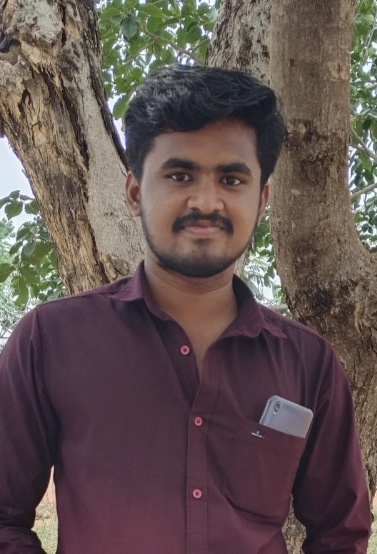
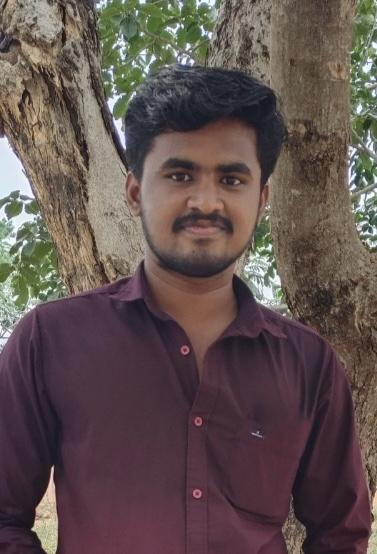
final changes

Changed region(s): [[0.6711, 0.7058, 0.8462, 0.7978]]

diff --git a/necgpp-mar26/src/services/email.service.js b/necgpp-mar26/src/services/email.service.js
@@ -126,7 +126,7 @@ export const sendUserEditedNotice = async (user, editorUserId) => {
   const adminEmails = await getAdminEmails();
   const adminHtml = templates.adminActionSummaryTemplate(
     'User Profile Updated',
-    `Administrator (ID: ${editorUserId}) has updated the profile for user: <strong>${user.full_name}</strong>.`,
+    `Administrator (USER ID: ${editorUserId}) has updated the profile for user: <strong>${user.full_name}</strong>.`,
     [`Email: ${user.email}`, `Role: ${user.role}`]
   );
   await bulkSend({ to: adminEmails, subject: `System Notification: User Profile Update`, html: adminHtml });
@@ -137,7 +137,7 @@ export const sendUserDeletedNotice = async (userName, userEmail, userRole, edito
   const adminEmails = await getAdminEmails();
   const html = templates.adminActionSummaryTemplate(
     'User Deleted',
-    `Administrator (ID: ${editorUserId}) has permanently deleted a user account.`,
+    `Administrator (USER ID: ${editorUserId}) has permanently deleted a user account.`,
     [`Name: ${userName}`, `Email: ${userEmail}`, `Role: ${userRole}`]
   );
   await bulkSend({ to: adminEmails, subject: `System Notification: User Deletion`, html });
@@ -148,7 +148,7 @@ export const sendBulkDeletionSummary = async (count, details, editorUserId) => {
   const adminEmails = await getAdminEmails();
   const html = templates.adminActionSummaryTemplate(
     'Bulk Deletion Executed',
-    `Administrator (ID: ${editorUserId}) has performed a bulk deletion.`,
+    `Administrator (USERID: ${editorUserId}) has performed a bulk deletion.`,
     [`Action: ${details}`, `Records removed: ${count}`]
   );
   await bulkSend({ to: adminEmails, subject: `System Notification: Bulk Deletion`, html });
@@ -173,11 +173,16 @@ export const sendPasswordChangedEmail = async (user) => {
   await sendEmail({ to: user.email, subject: 'Security Alert: Password Changed', html });
 };
 
+export const sendPasswordResetConfirmationEmail = async (user) => {
+  const html = templates.resetPasswordSuccessTemplate(user.full_name);
+  await sendEmail({ to: user.email, subject: 'Password Reset Confirmation', html });
+};
+
 // ═══════════════════════════════════════════════════════════════════════════════
 // SUBJECT EMAILS
 // ═══════════════════════════════════════════════════════════════════════════════
 
-export const sendSubjectCreatedMails = async (subject, collaboratorDeptIds, allDeptIds) => {
+export const sendSubjectCreatedMails = async (subject, collaboratorDeptIds, allDeptIds, notify) => {
   if (await suppressed(`Subject created: ${subject?.subject_name}`)) return;
   const allHeadRows = await executeQuery(
     `SELECT u.email, d.dept_id FROM users u
@@ -188,13 +193,15 @@ export const sendSubjectCreatedMails = async (subject, collaboratorDeptIds, allD
   const nonCollaboratorEmails = allHeadRows.filter(r => !collaboratorDeptIds.includes(r.dept_id)).map(r => r.email);
   const adminEmails = await getAdminEmails();
 
-  // (a) To Non-Collaborators
-  const htmlNotice = templates.subjectCreatedNoticeTemplate(subject.subject_name, subject.creator || 'Admin');
-  await bulkSend({
-    to: nonCollaboratorEmails,
-    subject: `New Subject: ${subject.subject_name}`,
-    html: htmlNotice
-  });
+  if(notify){
+    // (a) To Non-Collaborators
+    const htmlNotice = templates.subjectCreatedNoticeTemplate(subject.subject_name, subject.creator || 'Admin');
+    await bulkSend({
+      to: nonCollaboratorEmails,
+      subject: `New Subject: ${subject.subject_name}`,
+      html: htmlNotice
+    });
+  }
 
   // (b) To Collaborators + Admins
   const htmlAdmin = templates.subjectCreatedAdminTemplate(subject.subject_name, subject.creator || 'Admin');
@@ -231,12 +238,13 @@ export const sendSubjectLockMail = async (subjectId, subjectName, locked) => {
 export const sendDeptViewLockMail = async (deptId, subjectName, locked) => {
   if (await suppressed(`Dept view lock: ${subjectName}`)) return;
   const memberEmails = await getDeptMemberEmails(deptId);
+  const headEmail = await getDeptHeadEmail(deptId);
   const action = locked ? 'Hidden' : 'Visible';
   const html = templates.genericNotificationTemplate(
     'Visibility Changed',
-    `The subject <strong>${subjectName}</strong> is now <strong>${action.toLowerCase()}</strong> for your department based on your Department Head's settings.`
+    `The subject <strong>${subjectName}</strong> is now <strong>${action.toLowerCase()}</strong> for your department in effect of your Department Head's settings.`
   );
-  await bulkSend({ to: memberEmails, subject: `Visibility Change: ${subjectName}`, html });
+  await bulkSend({ to: [...memberEmails,...headEmail], subject: `Visibility Change: ${subjectName}`, html });
 };
 
 export const sendCollaboratorAddedMail = async (subjectId, subjectName, addedDeptName) => {
@@ -273,15 +281,24 @@ export const sendCollaboratorRemovedMail = async (subjectId, subjectName, remove
   }
 };
 
-export const sendCollaboratorLeftMail = async (subjectId, subjectName, leftDeptName) => {
+export const sendCollaboratorLeftMail = async (subjectId, subjectName, deptId, leftDeptName) => {
   if (await suppressed(`Collaborator left: ${subjectName}`)) return;
   const collaboratorEmails = await getCollaboratorEmails(subjectId);
   const adminEmails = await getAdminEmails();
+  const leftHeadEmail = await getDeptHeadEmail(deptId);
   const html = templates.genericNotificationTemplate(
     'Collaborator Left',
     `Department <strong>${leftDeptName}</strong> has chosen to leave the subject <strong>${subjectName}</strong>.`
   );
   await bulkSend({ to: [...collaboratorEmails, ...adminEmails], subject: `Collaborator Left: ${subjectName}`, html });
+   // Notice to the removed department head
+  if (leftHeadEmail) {
+    const htmlRemoved = templates.genericNotificationTemplate(
+      'Access Lost',
+      `Your department's collaborating access to the subject <strong>${subjectName}</strong> has been lost because you left from the subject.`
+    );
+    await sendEmail({ to: leftHeadEmail, subject: `Subject Access Lost: ${subjectName}`, html: htmlRemoved });
+  }
 };
 
 export const sendJoinRequestMail = async (subjectId, subjectName, requestingDeptName) => {

diff --git a/frontend/src/pages/public/AboutPortal.tsx b/frontend/src/pages/public/AboutPortal.tsx
@@ -25,7 +25,7 @@ const sections = [
   },
   {
     icon: ClipboardList,
-    title: 'Tests — exam-grade conditions',
+    title: 'Tests - GATE-Grade conditions',
     items: [
       'Two creation modes: Make-Questions and Intelli-Pick (auto-pulls from your practice bank)',
       'Mandatory full-screen mode; tab switches and window changes count as malpractice',
@@ -37,7 +37,7 @@ const sections = [
     title: 'Where you stand',
     items: [
       'Dept heads, tutors, and admins each see a scoped progress view',
-      'Per-student detail card with last attempts and active subjects',
+      'Per-student detail card with last attempts, current learning subjects',
       'Climb the ranks across your dept, batch, or globally.',
     ],
   },
@@ -45,17 +45,17 @@ const sections = [
     icon: Users,
     title: 'Tutorward management',
     items: [
-      'Any staff can be assigned tutorward students from their dept + batch',
-      'Add/remove students by registration number',
+      'Staff can create tutorwardship for students from their dept + tutoring batch',
+      'Add/remove students from their tutorward list',
     ],
   },
   {
     icon: ListChecks,
     title: 'Question types — exactly GATE',
     items: [
-      'MCQ — 1 or 2 marks, negative marking when set has it on',
-      'MSQ — 2 marks, all-or-nothing (no negative)',
-      'NAT — 1 or 2 marks, ±0.0001 tolerance, no negative',
+      'MCQ — 1 or 2 marks, (negative marking if applied)',
+      'MSQ — 2 marks, all-or-nothing (no negative marking)',
+      'NAT — 1 or 2 marks, ±0.0001 tolerance (no negative marking)',
     ],
   },
 ];
@@ -71,7 +71,7 @@ export default function AboutPortalPage() {
           How NEC GATE Portal works
         </h1>
         <p className="mt-4 text-slate-600 max-w-2xl mx-auto leading-relaxed">
-          A quick tour of the workflows the platform was built around — practice, tests, leaderboards, and the access model that ties them together.
+          A quick tour of the platform workflows that was built around — practice, tests, leaderboards, and the access model that ties them together.
         </p>
       </div>
 
@@ -101,7 +101,7 @@ export default function AboutPortalPage() {
       <div className="mt-12 rounded-2xl bg-navy-50 border border-navy-100 p-6 sm:p-8 text-center">
         <h3 className="font-display font-bold text-navy-900 text-xl">Roles at a glance</h3>
         <p className="mt-2 text-slate-600 max-w-2xl mx-auto text-sm">
-          Admins manage everything. Department Heads own subjects and tests for their dept. Staff can mentor tutorward students. Students practice, attempt tests, and climb the leaderboard.
+          Admins manage everything. Department Heads can monitor and own subjects and tests for their dept. Staff can mentor tutorward students. Students practice, attempt tests, and climb the leaderboard.
         </p>
         <Link to="/login" className="inline-block mt-5">
           <Button size="lg" rightIcon={<ArrowRight className="h-4 w-4" />}>Go to sign in</Button>

diff --git a/frontend/src/pages/public/AboutUs.tsx b/frontend/src/pages/public/AboutUs.tsx
@@ -161,9 +161,9 @@ export default function AboutUsPage() {
               <Sparkles className="h-5 w-5 text-amber-500" /> Built in-house
             </h2>
             <p>
-              This platform was envisioned, designed, and developed end-to-end by NEC faculty and
-              students for the specific way our departments coach for GATE — collaborative practice
-              between departments, transparent progress for tutors, and exam-grade test conditions.
+              This platform was envisioned, designed, and developed end-to-end by NEC students (A team from 2022-2026 Batch Year) 
+              for the specific way our departments coach for GATE — collaborative practice
+              between departments, transparent progress for monitoring, and gate-grade test conditions.
             </p>
           </div>
         </div>
@@ -180,7 +180,7 @@ export default function AboutUsPage() {
             Guided by
           </h2>
           <p className="text-slate-500 text-sm mt-1.5">
-            The faculty who shaped the platform's direction
+            The faculty who provided key directives of this platform
           </p>
         </div>
 
@@ -211,7 +211,7 @@ export default function AboutUsPage() {
             Built by NEC students
           </h2>
           <p className="text-slate-500 text-sm mt-1.5">
-            Final-year CSE undergraduates of the 2022–26 batch
+            The full-stack minds behind the architecture, interface design, and logic flows.
           </p>
         </div>
 

diff --git a/necgpp-mar26/src/utils/emailTemplates.js b/necgpp-mar26/src/utils/emailTemplates.js
@@ -70,15 +70,7 @@ const baseLayout = (content, previewText = '') => `
 /**
  * Auth Templates
  */
-export const forgotPasswordTemplate = (name, resetUrl) => baseLayout(`
-  <h2 style="margin-top: 0; color: ${PRIMARY_COLOR}; font-size: 20px;">Forgot your password?</h2>
-  <p>Hi <strong>${name}</strong>,</p>
-  <p>We received a request to reset your password. You can do this by clicking the button below:</p>
-  <div style="text-align: center; margin: 30px 0;">
-    <a href="${resetUrl}" style="background-color: ${SECONDARY_COLOR}; color: #ffffff; padding: 14px 28px; border-radius: 6px; text-decoration: none; font-weight: 600; display: inline-block;">Reset Password</a>
-  </div>
-  <p style="font-size: 14px; color: #6b7280;">If you didn't request a password reset, you can safely ignore this email. This link will expire in 1 hour.</p>
-`, 'Password reset request for your GATE Portal account.');
+
 
 export const resetPasswordSuccessTemplate = (name) => baseLayout(`
   <h2 style="margin-top: 0; color: #10b981; font-size: 20px;">Password Reset Successful</h2>

diff --git a/necgpp-mar26/src/utils/sendEmail.js b/necgpp-mar26/src/utils/sendEmail.js
@@ -13,11 +13,11 @@ const transporter = nodemailer.createTransport({
 });
 
 export const sendEmail = async ({ to, subject, text, html, attachments = [] }) => {
-  if (process.env.NODE_ENV === 'development') {
-    console.log('DEV MODE: Email delivery suppressed natively', { to, subject }); 
-    logger.info('DEV MODE: Email delivery suppressed natively', { to, subject });
-    return { messageId: 'dev_mode_mock_id' };
-  }
+  // if (process.env.NODE_ENV === 'development') {
+  //   console.log('DEV MODE: Email delivery suppressed natively', { to, subject }); 
+  //   logger.info('DEV MODE: Email delivery suppressed natively', { to, subject });
+  //   return { messageId: 'dev_mode_mock_id' };
+  // }
 
   try {
     const info = await transporter.sendMail({

diff --git a/frontend/src/components/practice/SubjectCard.tsx b/frontend/src/components/practice/SubjectCard.tsx
@@ -271,7 +271,7 @@ export const SubjectCard = ({ subject, isCollaborator, isSuperAccess }: Props) =
         title={subjectLocked ? 'Unlock subject?' : 'Lock subject?'}
         description={subjectLocked
           ? 'Collaborators will regain access to topics, sets, and practice.'
-          : 'All collaborators will be blocked from entering this subject. Only the owner and Admin can edit while locked.'}
+          : 'All collaborators will be blocked from entering this subject. Only the subject owner and Admin can edit while locked.'}
         confirmText={subjectLocked ? 'Unlock' : 'Lock'}
         destructive={!subjectLocked}
         loading={lockMut.isPending}
@@ -281,8 +281,8 @@ export const SubjectCard = ({ subject, isCollaborator, isSuperAccess }: Props) =
         open={confirm === 'deptLock'} onOpenChange={(o) => !o && setConfirm(null)}
         title={deptLock ? 'Show subject to your department?' : 'Hide subject from your department?'}
         description={deptLock
-          ? 'Students and staff in your department will see this subject again.'
-          : 'Students and staff in your department will no longer see this subject. Other collaborating departments are not affected.'}
+          ? 'Students and staff in your department will access this subject again.'
+          : 'Students and staff in your department will no longer access this subject. Other collaborating departments are not affected.'}
         confirmText={deptLock ? 'Show' : 'Hide'}
         destructive={!deptLock}
         loading={deptLockMut.isPending}
@@ -291,7 +291,7 @@ export const SubjectCard = ({ subject, isCollaborator, isSuperAccess }: Props) =
       <ConfirmDialog
         open={confirm === 'leave'} onOpenChange={(o) => !o && setConfirm(null)}
         title="Leave this subject?"
-        description="Your department will no longer collaborate on this subject. You can request to rejoin later."
+        description="Your department will no longer collaborate on this subject. However you can request to rejoin later."
         confirmText="Leave"
         destructive
         loading={leaveMut.isPending}

diff --git a/frontend/src/pages/public/Home.tsx b/frontend/src/pages/public/Home.tsx
@@ -21,7 +21,7 @@ export default function HomePage() {
                 Earn it set by set.
               </h1>
               <p className="mt-5 text-base sm:text-lg text-slate-600 max-w-xl leading-relaxed">
-                A focused practice + test platform with gamified progression, real-time leaderboards, and exam-grade scoring rules. Ace concepts at your pace, then prove it under timed conditions.
+                A focused practice + test platform with gamified progression, progress explorer, leaderboard and exam-grade scoring rules. Ace concepts at your pace, then prove it under timed conditions.
               </p>
               <div className="mt-8 flex flex-wrap gap-3">
                 <Link to="/login">
@@ -34,7 +34,7 @@ export default function HomePage() {
 
               <div className="mt-10 grid grid-cols-3 gap-3 max-w-md">
                 {[
-                  { v: 'GATE-grade',  l: 'Scoring rules' },
+                  { v: 'GATE-Grade',  l: 'Scoring rules' },
                   { v: 'Adaptive',    l: 'Practice flow' },
                   { v: 'Multi-Branch',        l: 'Leaderboards' },
                 ].map(s => (
@@ -120,8 +120,8 @@ export default function HomePage() {
               { icon: Target,         title: 'GATE-style scoring',       text: 'MCQ negative marking, MSQ all-or-nothing, NAT tolerance — exactly what you\'ll see on exam day.' },
               { icon: Trophy,         title: 'Where you stand',          text: 'Climb the ranks across your dept, batch, or globally.' },
               { icon: GraduationCap,  title: 'Tutor oversight',          text: 'Tutors track tutorward progress, identify weak topics, and step in early — no student left behind.' },
-              { icon: ShieldCheck,    title: 'Anti-malpractice tests',   text: 'Full-screen lock, tab-switch detection, auto-submit, and 30-minute server evaluation window.' },
-              { icon: Sparkles,       title: 'Intelli-Pick tests',       text: 'Test creators auto-pick fresh questions per topic — no hand-curation needed for weekly drills.' },
+              { icon: ShieldCheck,    title: 'Anti-malpractice tests',   text: 'Full-screen lock, tab-switch detection, auto-submit, and time based server evaluation.' },
+              { icon: Sparkles,       title: 'Intelli-Pick tests',       text: 'Test creators can auto-pick questions per topic — no hand-curation needed for weekly drills.' },
             ].map(f => (
               <div key={f.title} className="card card-hover p-6">
                 <div className="grid h-11 w-11 place-items-center rounded-xl bg-navy-50 text-navy-700">

diff --git a/necgpp-mar26/src/controllers/subject.controller.js b/necgpp-mar26/src/controllers/subject.controller.js
@@ -264,12 +264,12 @@ export const createSubject = catchAsync(async (req, res) => {
 
   await invalidateSubjectCacheForAll();
   
-  if (notify) {
+  
     const allDepts   = await executeQuery('SELECT dept_id FROM departments');
     const allDeptIds = allDepts.map(d => d.dept_id);
-    sendSubjectCreatedMails({ subject_name }, finalCollabDeptIds, allDeptIds)
+    sendSubjectCreatedMails({ subject_name }, finalCollabDeptIds, allDeptIds, notify)
       .catch(err => logger.error('Subject creation mail failed', { err: err.message }));
-  }
+  
 
   logger.info('Subject created', { subjectId: newSubjectId, creator, userId });
   return successResponse(res, { subject_id: newSubjectId }, 'Subject created successfully.', 201);
@@ -476,7 +476,7 @@ export const leaveSubject = catchAsync(async (req, res) => {
   // Same as removeCollaborator — clears my + other + admin caches
   await invalidateSubjectCacheForDept(deptId);
 
-  sendCollaboratorLeftMail(subject.subject_id, subject.subject_name, deptRows[0].dept_name)
+  sendCollaboratorLeftMail(subject.subject_id, subject.subject_name,deptId, deptRows[0].dept_name)
     .catch(err => logger.error('Leave subject mail failed', { err: err.message }));
 
   return successResponse(res, {}, 'You have left this subject.');

diff --git a/frontend/src/pages/practice/PracticeAttemptPage.tsx b/frontend/src/pages/practice/PracticeAttemptPage.tsx
@@ -407,7 +407,7 @@ export default function PracticeAttemptPage() {
                   <div className="text-xl font-bold text-amber-800 mt-0.5 font-mono">{counts.flagged}</div>
                 </div>
               </div>
-              <p className="mt-3 text-sm">You won't be able to change your answers after submission.</p>
+              <p className="mt-3 text-sm">Once submitted, you won't be able to change your answers.</p>
             </>
           );
         })()}
@@ -499,7 +499,7 @@ function FullscreenNotice({ onResume }: { onResume: () => void }) {
         </div>
         <h2 className="mt-4 font-display font-bold text-navy-900 text-lg">Return to fullscreen</h2>
         <p className="mt-2 text-sm text-slate-600 leading-relaxed">
-          Practice attempts must run in fullscreen. Your answers and timer are preserved — just hit the button to continue.
+          Practice attempts must run in fullscreen. Your answers are still preserved — just hit the button to continue your attempt.
         </p>
         <Button className="mt-5 w-full" leftIcon={<Maximize2 className="h-4 w-4" />} onClick={onResume}>
           Resume in fullscreen

diff --git a/frontend/src/pages/test/TestEditorPage.tsx b/frontend/src/pages/test/TestEditorPage.tsx
@@ -329,7 +329,7 @@ export default function TestEditorPage({ mode }: Props) {
             />
           </Field>
           <Field label="Duration (minutes)" required error={errors.duration_minutes?.message}
-                 hint="5 to 500 — drives the per-attempt countdown.">
+                 hint="5mins to 500mins — per-attempt countdown.">
             <Input
               type="number" min={5} max={500}
               leftIcon={<Clock className="h-4 w-4" />}
@@ -345,7 +345,7 @@ export default function TestEditorPage({ mode }: Props) {
         <p className="text-xs text-slate-500 mb-3">
           {mode === 'edit' && lockedAssignments.length > 0
             ? 'Existing participation cannot be removed — only new (dept × batch) pairs can be added.'
-            : 'Pick which (department × batch) pairs are assigned this test. At least one pair is required.'}
+            : 'Pick which (batch x department) pairs are assigned this test. At least one pair is required.'}
         </p>
         <AssignmentsPicker
           value={assignments}

diff --git a/frontend/src/app/App.tsx b/frontend/src/app/App.tsx
@@ -99,7 +99,7 @@ export default function App() {
       </Route>
 
       {/* ─── 404 → home ─────────────────────────────────────────────── */}
-      <Route path="*" element={<Navigate to="/" replace />} />
+      <Route path="*" element={<Navigate to="/practice" replace />} />
     </Routes>
   );
 }

diff --git a/frontend/src/components/practice/CreateSubjectDialog.tsx b/frontend/src/components/practice/CreateSubjectDialog.tsx
@@ -135,7 +135,7 @@ export const CreateSubjectDialog = ({ open, onOpenChange }: Props) => {
                  className="h-4 w-4 rounded border-slate-300 text-navy-700 focus:ring-amber-400" />
           <label htmlFor="notify" className="text-sm text-slate-700 flex items-center gap-1.5">
             <Users className="h-3.5 w-3.5 text-slate-400" />
-            Email all department heads about this new subject
+            Email notify all non-collaborating department heads about this creation of new subject
           </label>
         </div>
 